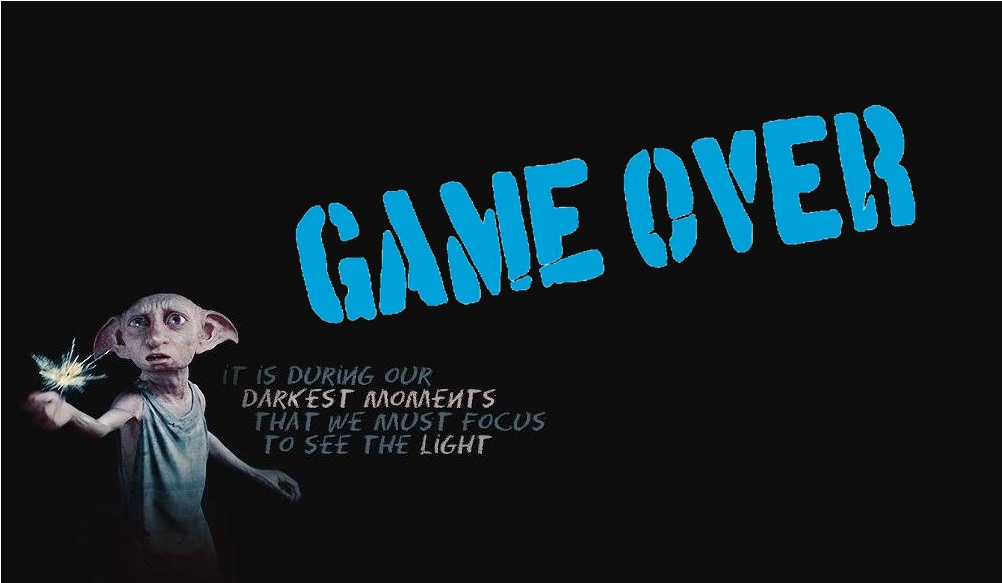
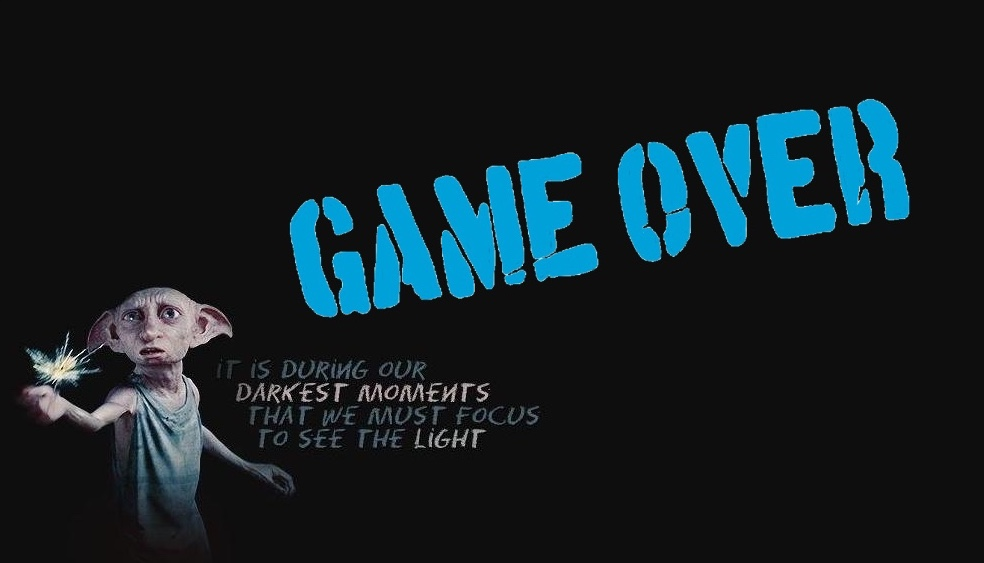
added gameover background

diff --git a/style.css b/style.css
@@ -15,53 +15,31 @@ h1 {
   color: white;
   font-family: 'Montez', cursive;
   font-size: 60px;
-
+  letter-spacing: 5px;
   text-align: center;
+  margin: 0;
+}
+
+body {
+    overflow: hidden;
+    margin: 0;
 }
 
 
-
 main {
-  align-items: center;
   display: flex;
   margin: 0;
   height: 100vh;
   background-image: url(pictures/harry1.jpg);
   background-size: 100%;
   background-repeat: no-repeat;
-  overflow: hidden;
   width: 100%;
 }
 
-.container1 {
-  /* background-color: dodgerblue; */
-  display: flex;
-  flex-direction: column;
-  flex-wrap: wrap;
-  flex-grow: 1;
-
-
-}
-
-.container2 {
-  background-color: dodgerblue;
-  display: flex;
-  flex-direction: column;
-  flex-wrap: wrap;
-
-}
-
 .grid {
-  /* background-image: url(https://media.giphy.com/media/NcAIyreaZovjq/giphy.gif);
-  background-size: cover;
-  background-position: center;
-  align-items: center;
-  background-repeat: no-repeat;
-  align-items: center; */
   display: flex;
-  flex-grow: 1;
   flex-wrap: wrap;
-  height: 100%;
+  height: 100vh;
   justify-content: center;
   max-height: 600px;
   max-width: 600px;
@@ -72,6 +50,26 @@ main {
   height: 33.33px;
   width: 33.33px;
   border: 1px solid black;
+}
+
+.container1 {
+  /* background-color: dodgerblue; */
+  display: flex;
+  flex-direction: column;
+  flex-wrap: wrap;
+  margin: auto;
+  justify-content: center;
+
+}
+
+.container2 {
+  display: flex;
+  flex-direction: column;
+  flex-wrap: wrap;
+  margin: auto;
+  justify-content: center;
+
+
 }
 
 .snake {
@@ -92,8 +90,14 @@ main {
 }
 
 .endOfGame{
-  background-image: url(pictures/Untitled_Artwork.jpg);
-  height: 100%;
+  background-image: url('pictures/Untitled_Artwork.jpg');
+  border: 5px solid black;
+  display: flex;
+  margin: 0;
+  height: 100vh;
+  background-size: 100%;
+  background-repeat: no-repeat;
+  width: 100%;
 }
 
 .score {

diff --git a/app.js b/app.js
@@ -13,7 +13,6 @@ document.addEventListener('DOMContentLoaded', () => {
 
   let snake = [3,2,1,0]
   let square = []
-  let chosenSquare = []
   let scoreCount = 0
   let snakeSpeed = 350
   let direction = 'right'
@@ -55,15 +54,29 @@ document.addEventListener('DOMContentLoaded', () => {
   }
 
   function food(){
-    chosenSquare = squares[Math.floor(Math.random() * squares.length)]
+    const chosenSquare = squares[Math.floor(Math.random() * squares.length)]
+    let randomIndex = Math.floor(Math.random() * squares.length)
+    while (squares[randomIndex].classList.contains('food')) {
+      randomIndex = Math.floor(Math.random() * squares.length)
+      squares[randomIndex].classList.add('food')
+    }
+
     chosenSquare.classList.add('food')
-    console.log(chosenSquare)
+    if(chosenSquare.classList.contains('snake')){
+      food()
+    }
+
+    console.log(randomIndex)
+
   }
 
+
+
+
   function gameOver() {
-    // gameInPlay = false
-    // grid.classList.remove('grid')
-    // main.classList.add('endOfGame')
+    gameInPlay = false
+    grid.classList.remove('grid')
+    main.classList.add('endOfGame')
     moveSnake()
     eraseSnake()
 
@@ -153,8 +166,9 @@ document.addEventListener('DOMContentLoaded', () => {
   // EVENTLISTENERS
   //********************************************* = listening to downward input key in order to change the direction.
   document.addEventListener('keydown', (e) => {
+    console.log(e.keyCode)
+    e.preventDefault()
     switch(e.keyCode) {
-
       case 37: if (direction !== 'right') direction = 'left'
         break
 
@@ -185,7 +199,5 @@ document.addEventListener('DOMContentLoaded', () => {
 
 
   })
-
   food()
-
 })
